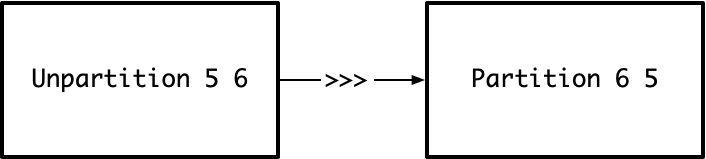
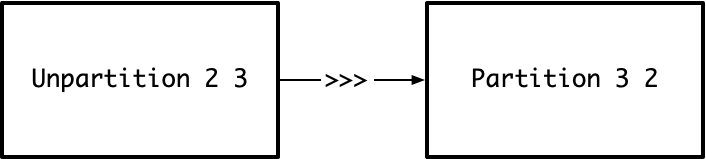
adding flip and transpose examples

Changed region(s): [[0.2805, 0.4277, 0.3739, 0.5535], [0.8725, 0.4277, 0.9348, 0.5535]]

diff --git a/theory/Scheduling.md b/theory/Scheduling.md
@@ -359,7 +359,11 @@ rewrite_to_match_output_type op ot_slowed =
 1. I haven't dealt with operators that don't have inputs/outputs that are factors of each other
 1. The space-time IR cannot consider just throuhgput without delay while giving a good cost model
 
-# Ideal Scheduler
+# More Examples Expressible In Sequence Language With Hardware Produced By Ideal Scheduler
+The below examples demonstrate:
+1. The ideal hardware to produce
+2. Any additional space-time IR operators necessary to express that hardware
+
 ## Composition of Multi-Rate With Nested Operators
 This example demonstrates the issue of scheduling multiple operators while preserving nesting.
 ```
@@ -438,25 +442,75 @@ The `Partition` was moved to the front of the pipeline and the `Unpartition` was
 This example demonstrates `Unpartition` and `Partition` that can't be optimized away.
 
 ```
-Unpartition 5 6 Int >>> Partition 6 5 Int
+Unpartition 2 3 Int >>> Partition 3 2 Int
 ```
 
-Attainable s are `1, 2, 3, 5, 6, 10, 15, and 30`.
+Attainable s are `1, 2, 3, 6`.
 The program in the sequence language AST is:
 
 ![Unscheduled Non-Removable Partition](other_diagrams/scheduler_examples/hardware/irreducible_nesting_manip/irreducible_nesting_manip_seq.png "Unscheduled Non-Removable Partition")
 
-The below space-time IR program implements the pipeline with a slowdown of `s=5`
+For the below programs, I will not yet provide hardware diagrams.
+All of these as just buffers with counters for inputs and outputs.
 
+The below space-time IR program implements the pipeline with a slowdown of `s=2`
+```
+Flip_ts_to_st 2 3 0 Int
 ```
 
+This requires a new operator `Flip_ts_to_st no ni io t :: TSeq no io (SSeq ni t) -> SSeq ni (TSeq no io t)` that has the same type as a transpose, but different semantics.
+The below diagram demonstrates the difference.
+In the diagram, square boxes indicate `TSeq` and circular braces indicate `SSeq`.
+The ordering from outer to inner of box and braces indicates the nesting of `TSeq` and `SSeq`.
+Below, the inputs to both `Flip_ts_to_st` and `Transpose_ts_to_st` have boxes surrounding braces as the inputs are `TSeq 2 0 (SSeq 3 Int)`.
+Clock cycles are read left to right. 
+For the inputs to both operators, the first `SSeq` is emitted on clock 0 because it is in the left most box.
+Although not shown in this diagram, nested boxes or braces would indicate nested `TSeq`s and `SSeq`s.
+
+The diagram shows that `Flip_ts_to_st` and `Transpose_ts_to_st` produce outputs in different orders.
+The implementation of `Transpose_ts_to_st` is just wires in hardware.
+All elements are accepted and emitted on the same clock cycles.
+`Flip_ts_to_st` requires buffering the `3, 5, and 6` because they are accepted and emitted on different clocks.
+
+![Transpose Vs Flip](other_diagrams/scheduler_examples/hardware/irreducible_nesting_manip/transpose_vs_flip.png "Transpose vs Flip")
+
+The below space-time IR program implements the pipeline with a slowdown of `s=3`
+```
+Flip_st_to_ts 2 3 0 Int
+```
+
+This requires a new operator `Flip_st_to_ts no ni io t :: SSeq ni (TSeq no io t) -> TSeq no io (SSeq ni t)`.
+
+The below space-time IR program implements the pipeline with a slowdown of `s=6`:
+```
+Unpartition_t_tt 2 3 0 0 Int >>> Partition_t_tt 3 2 0 0 Int
 ```
 
 ## Non-Removable Partition With Invalids
 This example demonstrates `Unpartition` and `Partition` that can't be optimized away and have to deal with invalid clocks
 
 ```
-Down_1d 5 (Seq 6 Int) >>> Unpartition 1 6 Int >>> Partition 6 1 Int
+Select_1d 4 0 (Seq 9 Int) >>> Up_1d 2 (Seq 9 Int) >>> Unpartition 2 9 Int >>> Partition 9 2 Int
+```
+
+Attainable s include `1, 2, 3, 4, 6, 9, and 36`.
+The program in the sequence language AST is:
+
+![Unscheduled Non-Removable Partition With Invalids](other_diagrams/scheduler_examples/hardware/irreducible_underutil/irreducible_underutil_seq.png "Unscheduled Non-Removable Partition With Invalids")
+
+
+The below space-time IR program implements the pipeline with a slowdown of `s=36`
+
+```
+Select_1d_t 4 0 0 (TSeq 9 0 Int) >>> Up_1d_t 2 2 (TSeq 9 0 Int) >>> Unpartition_t_tt 2 9 2 0 Int >>> Partition_t_tt 9 2 0 2 Int
+```
+
+The below space-time IR program implements the pipeline with a slowdown of `s=18`
+```
+Select_1d_t 2 0 0 (SSeq 2 (TSeq 9 0 Int)) >>> Map_t 1 1 (Select_1d_s 2 0 (TSeq 9 0 Int)) >>> 
+    Up_1d_t 2 0 (SSeq 1 (TSeq 9 0 Int)) >>> 
+    Map_t 2 0 (Flip_st_to_ts 9 0 1) >>> 
+    Unpartition_t_tt 2 9 0 0 (SSeq 1 Int)
 ```
 
 ## Diamond Pattern
@@ -541,6 +595,13 @@ merge_with_up input = do
 The diagram below shows the hardware implementation of this space-time IR program.
 
 ![Scheduled s=15 Diamond Pattern With Nesting Manipulation](other_diagrams/scheduler_examples/hardware/diamond_nest_manip/diamond_nesting_manip_s_15.png "Scheduled s=15 Diamond Pattern With Nesting Manipulation")
+
+# Examples Not Conveniently Expressible In Sequence Language
+The below examples demonstrate certain common patterns that cannot be expressed in Aetherling.
+
+## Double Buffer
+
+## Histogram
 
 ## Composition of Multi-Rate With Nested Operators and Memories
 This example demonstrates the issue of scheduling multiple operators while preserving nesting and using memories.
